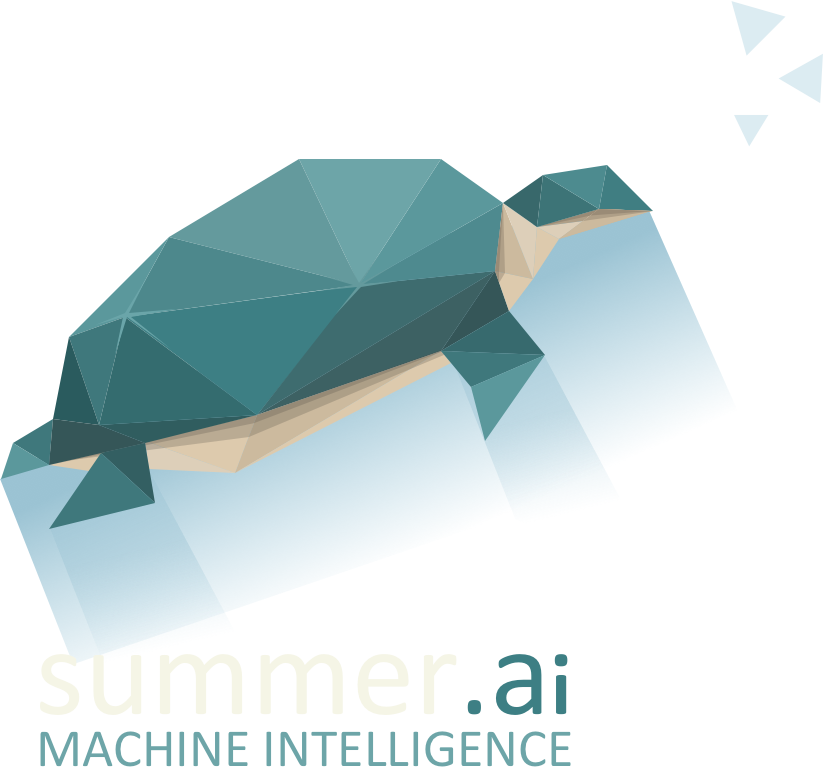
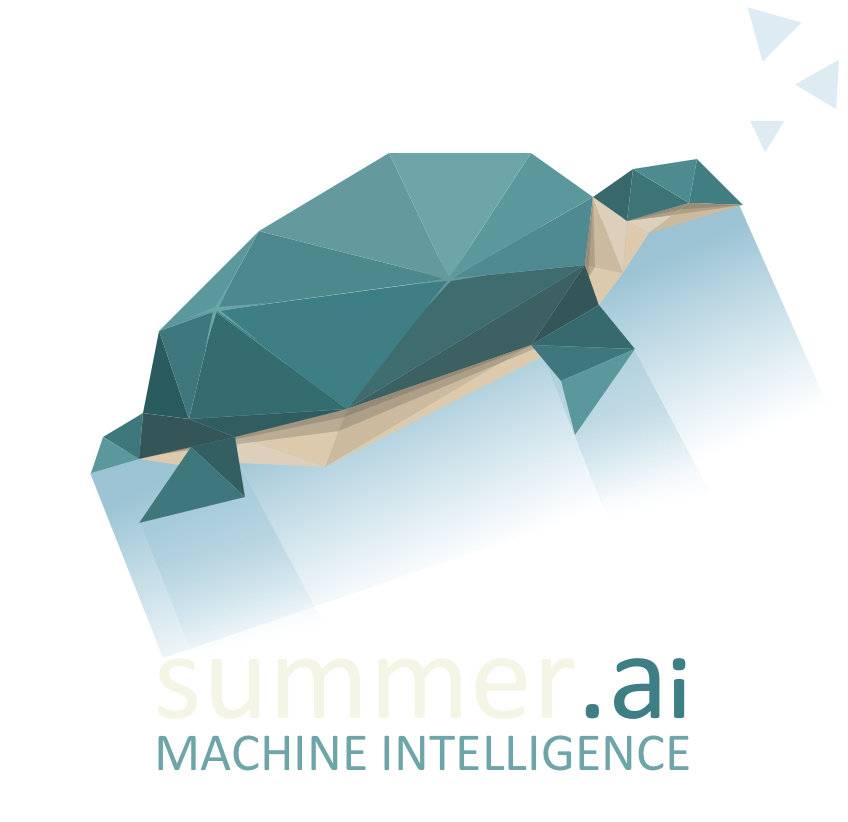
Mobile

diff --git a/static/less/landing.less b/static/less/landing.less
@@ -21,14 +21,14 @@
 .regular(@font-size: @m) { font-size: @font-size; font-family: "Open Sans", Times, Arial, Sans-Serif; font-weight: 300; line-height: 135%; }
 .title(@font-size: @m)  { font-size: @font-size; font-family: "Abel", Helvetica, Arial, Sans-Serif;  text-transform: uppercase;}
 
-html
+body, html
     {
     font-size: 62.5%;
     }
 
 body 
     {
-    .regular(10pt);
+    .regular(@s);
     background: @lightlight;
     }
 
@@ -99,6 +99,7 @@ nav
  * HERO
  ********************************************* */
 
+#team, #services, #tagline, #process, #lowercta { padding: 40px 0; }
 
 #hero
     {
@@ -121,10 +122,10 @@ nav
     #turtle
         {
         background: url(../images/turtle.png) top right no-repeat;
-        background-size: 413px 396px;
-        width: 524px;
+        background-size: 100% 100%;
+        width: 424px;
         z-index: 200;
-        height: 396px;
+        height: 411px;
         }
 
     }
@@ -151,7 +152,6 @@ nav
 
 #services
     {
-    padding: 40px 0;
     background: @lightlight;
     h2 { color: @grey; }
     }
@@ -215,9 +215,9 @@ nav
         margin-top: 10px;
         #panel {
             .transition(left 1s ease);
-            border: 1px solid red;
             position: absolute;
             left: 0px;
+            margin-left: 210px;
         }
         }
     .detail { 
@@ -240,11 +240,10 @@ nav
             margin-bottom: 12px;
             }
     }
-    .detail1 {left: 210px; .opacity(1); &:after { left: 60px;} }
-    .detail2 {left: 730px; &:after { left: 200px;} }
-    .detail3 {left: 1250px; &:after { left: 390px;} }
-    .detail4 {left: 1770px; &:after { left: 460px;} }
-    padding: 40px 0;
+    .detail1 {left: 0px; .opacity(1); &:after { left: 60px;} }
+    .detail2 {left: 520px; &:after { left: 200px;} }
+    .detail3 {left: 1040px; &:after { left: 390px;} }
+    .detail4 {left: 1560px; &:after { left: 460px;} }
     ul  
         {
         text-align: center;
@@ -261,7 +260,7 @@ nav
             }
         border: 1px solid @light;
         padding: 8px 12px 8px 12px;
-        margin: 0px 4px;
+        margin: 0px 4px 8px 4px;
         text-transform: uppercase;
         color: @light;
         .title(@l);
@@ -288,7 +287,6 @@ nav
 
 #team
     {
-    padding: 40px 0;
     background: @grey;
     h2 { color: @light; }
     .columns
@@ -317,7 +315,6 @@ nav
             &:after
                 {
                 content: "";
-                background: red;
                 width: 100%;
                 height: 20px;
                 border: 2px solid green;
@@ -355,7 +352,6 @@ nav
 #lowercta
     {
     .diagonal-gradient (#85C4D1, #7BA7D7);
-    padding: 40px;
     p
         {
         color: @light;
@@ -448,24 +444,19 @@ body.popup
  ********************************************* */
 
 @media screen and (max-width: 1024px) {
-    div#company
+    .container
         {
-        p, a.cta { .regular(16pt; )}
-        p.knot63 { background-size: 200px 50px; margin: 30px 0 20px 0; }
-        } 
-    div#services .row .content 
-        {
-        .inner { padding: 40px; }
-
-        h2 {.regular(20pt)}
-        p, a.cta {.regular(12pt;)}
-        a.cta { padding: 10px 12px 8px 12px; }
-        p span { max-width: 340px; }
-        p { margin: 20px 0 40px 0; }
+        max-width: 700px;
         }
-    #careers h2 {.regular(20pt)}
-    #jobs li a.apply { .regular(12pt); }
-    #benefits li, #benefits li strong, #jobs li p { font-size: 12pt; line-height: 16pt; }
+    #process #details #panel
+        {
+        margin-left: 80px;
+        background: green;
+        }
+    #tagline {padding: 40px 0;}
+    #process li { .title(@m); }
+    #team .columns {margin: 40px 0 20px 0;}
+    #team .h-card p.n { .title(@m); }
 }
 
 
@@ -473,73 +464,61 @@ body.popup
  * MOBILE
  ********************************************* */
 
+@media all and (max-width: 720px) {
+    .container { margin: 0px 10px; }
+}
 
-@media screen and (max-width: 640px) {
-    div#hero h1
+@media all and (max-width: 640px) {
+    @xs: 8pt;
+    @s: 10pt;
+    @m: 12pt;
+    @l: 14pt;
+    @xl: 20pt;
+    body { .regular(@s); }
+    h2 { .title(@xl); }
+    nav { display: none; }
+    #hero 
         {
-        .regular(28pt);
-        margin-bottom: 100px;
+        min-height: 10px;
+        padding: 40px 0;
+        overflow: hidden;
+        #turtle { .scale(.8); }
         }
-    .container
+    #copyright 
         {
-        margin: 0 20px;
+        width: 100%;
+        margin: 20px auto;
+        &:before { width: 60px; height: 34px; }
         }
-    div#services .knot
+    #tagline p { .regular(@l); } 
+    #services ul.services li p { .regular(@s); }
+    #services ul.services li h3 { .title(@m); }
+    #services ul.services { .columns(1); }
+    #services ul.services li:before {
+        .scale(.666);
+        margin: 0 auto;
+    }
+    #process
         {
-        width: 100px;
-        height: 100px;
-        margin: -50px 0 0 -50px;
-        background-size: 50px 53px;
+        #panel { width: 100%; margin-left: 0px !important; }
+        .detail {width: 100%}
+        .detail1:after { left: 50%;}
+        .detail2:after { left: 50%;}
+        .detail3:after { left: 50%;}
+        .detail4:after { left: 50%;}
         }
-    div#services .row, div#services .row.ux, div#services .row.data
-        {
-        .photo, .content  
-            {
-            width: 100%;
-            left: 0px;
-            }
-        .content
-            {
-            text-align: center;
-            h2  {color: @blue-light;}
-            p  {color: white; margin: 20px 0;}
-            a.cta
-                {
-                color: @blue-light;
-                border-color: @blue-light;
-                &:hover
-                    {
-                    background: fade(@blue-light, 80);
-                    color: white;
-                    }
-                }
-            background: rgba(0,0,0, .5);
-            }
-        }
-    div#services .row.data .content a.cta
-        {
-        margin-bottom: 40px;
-        display: inline-block;
-        }
-    div#services .row.ux .content h2
-        {
-        margin-top: 30px;
-        }
-    nav
-        {
-        border-bottom: none;
-        ul li { display: none; }
-        ul li:first-child 
-            {
-            display: block;
-            width: 100%;
-            left: 0px;
-            }
-        }
-    #benefits, #jobs
-        {
-        .columns(1);
-        }
-    #jobs li a.apply {display: none; }
-    #jobs li a.apply.upper {display: block; }
+    #process .detail {
+        width: 100%;
+    }
+    #process .detail { .regular(@s); }
+    #process li { .title(@l); }
+    #team .columns { .columns(1); }
+    #team .h-card:first-child { margin-bottom: 20px; }
+    #team .h-card a.p-nickname { .regular(@s); }
+    #team .h-card p.p-note { .regular(@s); }
+    #team .h-card p.n { .title(@l); }
+    #lowercta p { .regular(@l); }
+    .button{ .regular(@m); }
+    #copyright { .regular(@xs); }
+    #team, #services, #tagline, #process, #lowercta { padding: 20px 0; }
 }

diff --git a/pages/index.html b/pages/index.html
@@ -10,20 +10,20 @@
   <link rel="shortcut icon" href="http://summer.ai/static/images/favicon.png" />
   <link rel="apple-touch-icon-precomposed" sizes="152x152" href="http://summer.ai/static/images/favicon.png" />
   <title>summer.ai</title>
-  <meta name="description" content="Knot 6-3 is a boutique data science and user experience consulting agency.">
+  <meta name="description" content="summer.ai is a machine intelligence agency.">
 
-  <meta property="og:title" content="Data Science + UX"/>
-  <meta property="og:site_name" content="Knot 6-3"/>
+  <meta property="og:title" content="Machine intelligence Strategy"/>
+  <meta property="og:site_name" content="summer.ai"/>
   <meta property="og:type" content="website"/>
   <meta property="og:image" content="http://summer.ai/static/images/banner.png"/>
   <meta property="og:url" content="http://summer.ai"/>
-  <meta property="og:description" content="Knot 6-3 is a boutique data science and user experience consulting agency. We work with  start-ups to help them tackle UX and data challenges early."/>
+  <meta property="og:description" content="summer.ai is a machine intelligence agency. We help companies make their products and business more intelligent through a comprehensive AI strategy."/>
 
 <meta name="twitter:card" content="summary_large_image">
 <meta name="twitter:url" content="http://summer.ai">
-<meta name="twitter:site" content="@knotsixthree">
-<meta name="twitter:title" content="Data Science + UX">
-<meta name="twitter:description" content="Knot 6-3 is a boutique data science and user experience consulting agency. We work with  start-ups to help them tackle UX and data challenges early.">
+<meta name="twitter:site" content="@summer__ai">
+<meta name="twitter:title" content="Machine intelligence Strategy">
+<meta name="twitter:description" content="summer.ai is a machine intelligence agency. We help companies make their products and business more intelligent through a comprehensive AI strategy.">
 <meta name="twitter:image:src" content="http://summer.ai/static/images/banner.png">
   
   </head>
